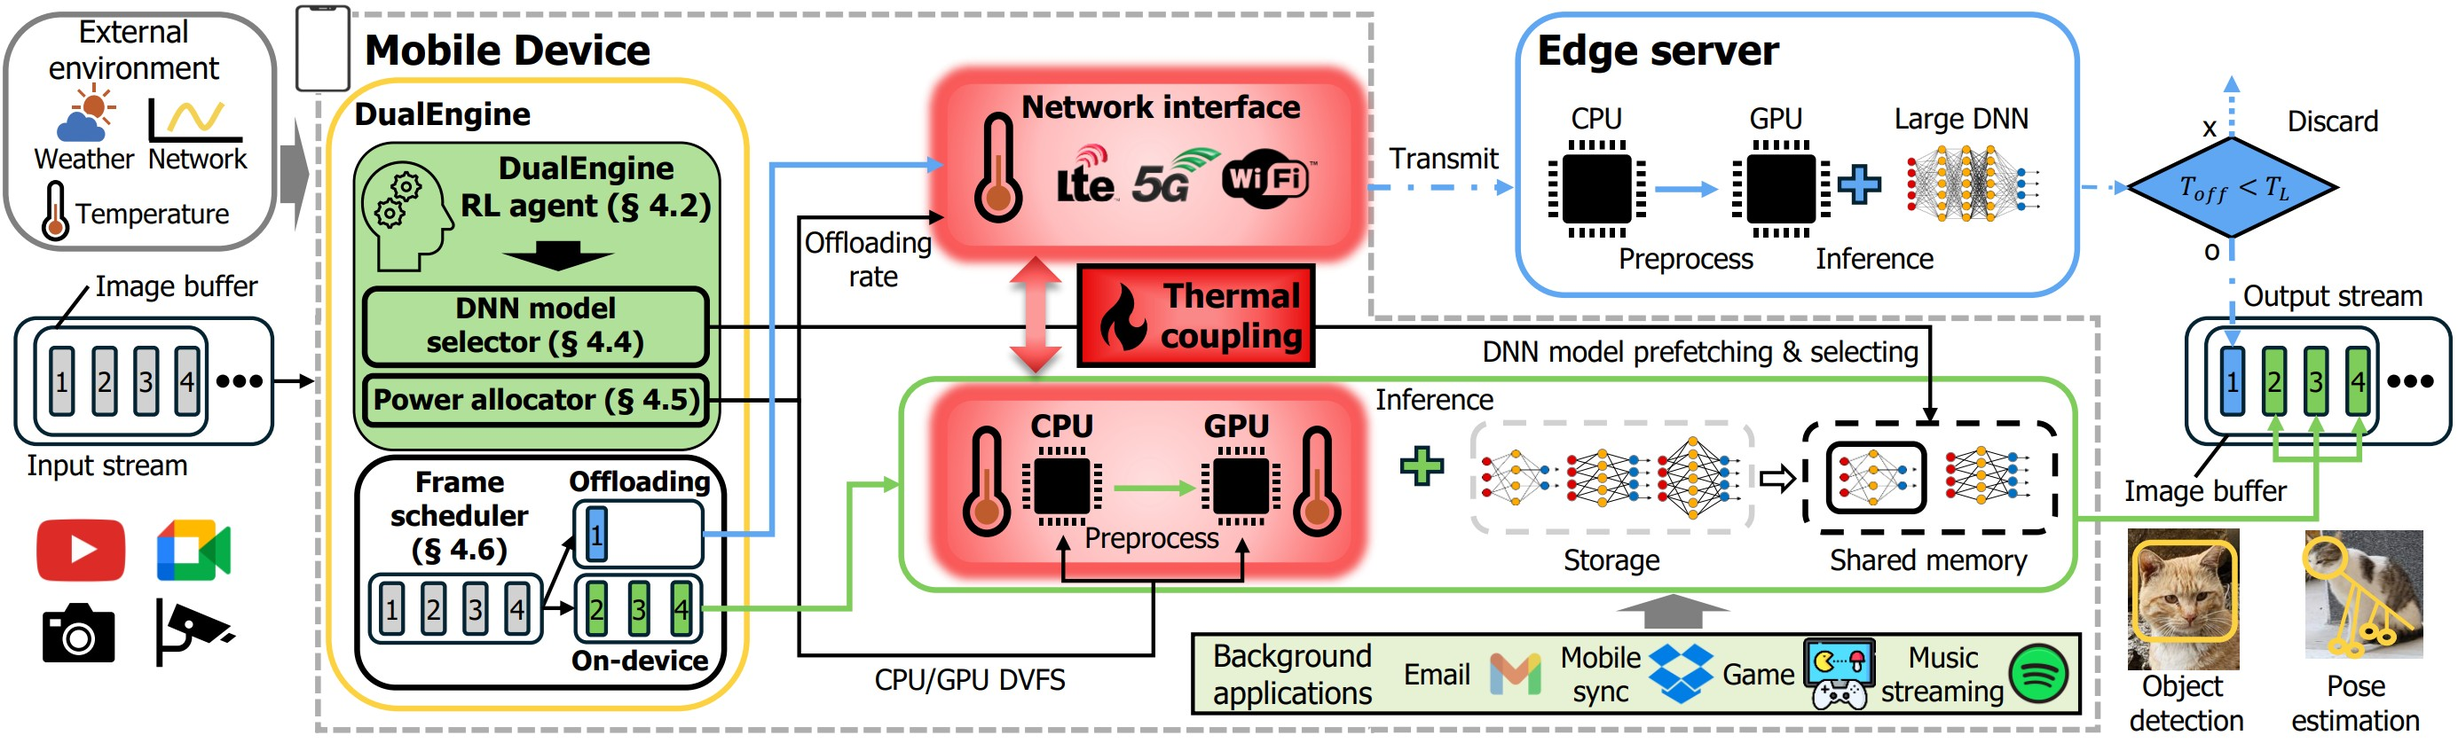
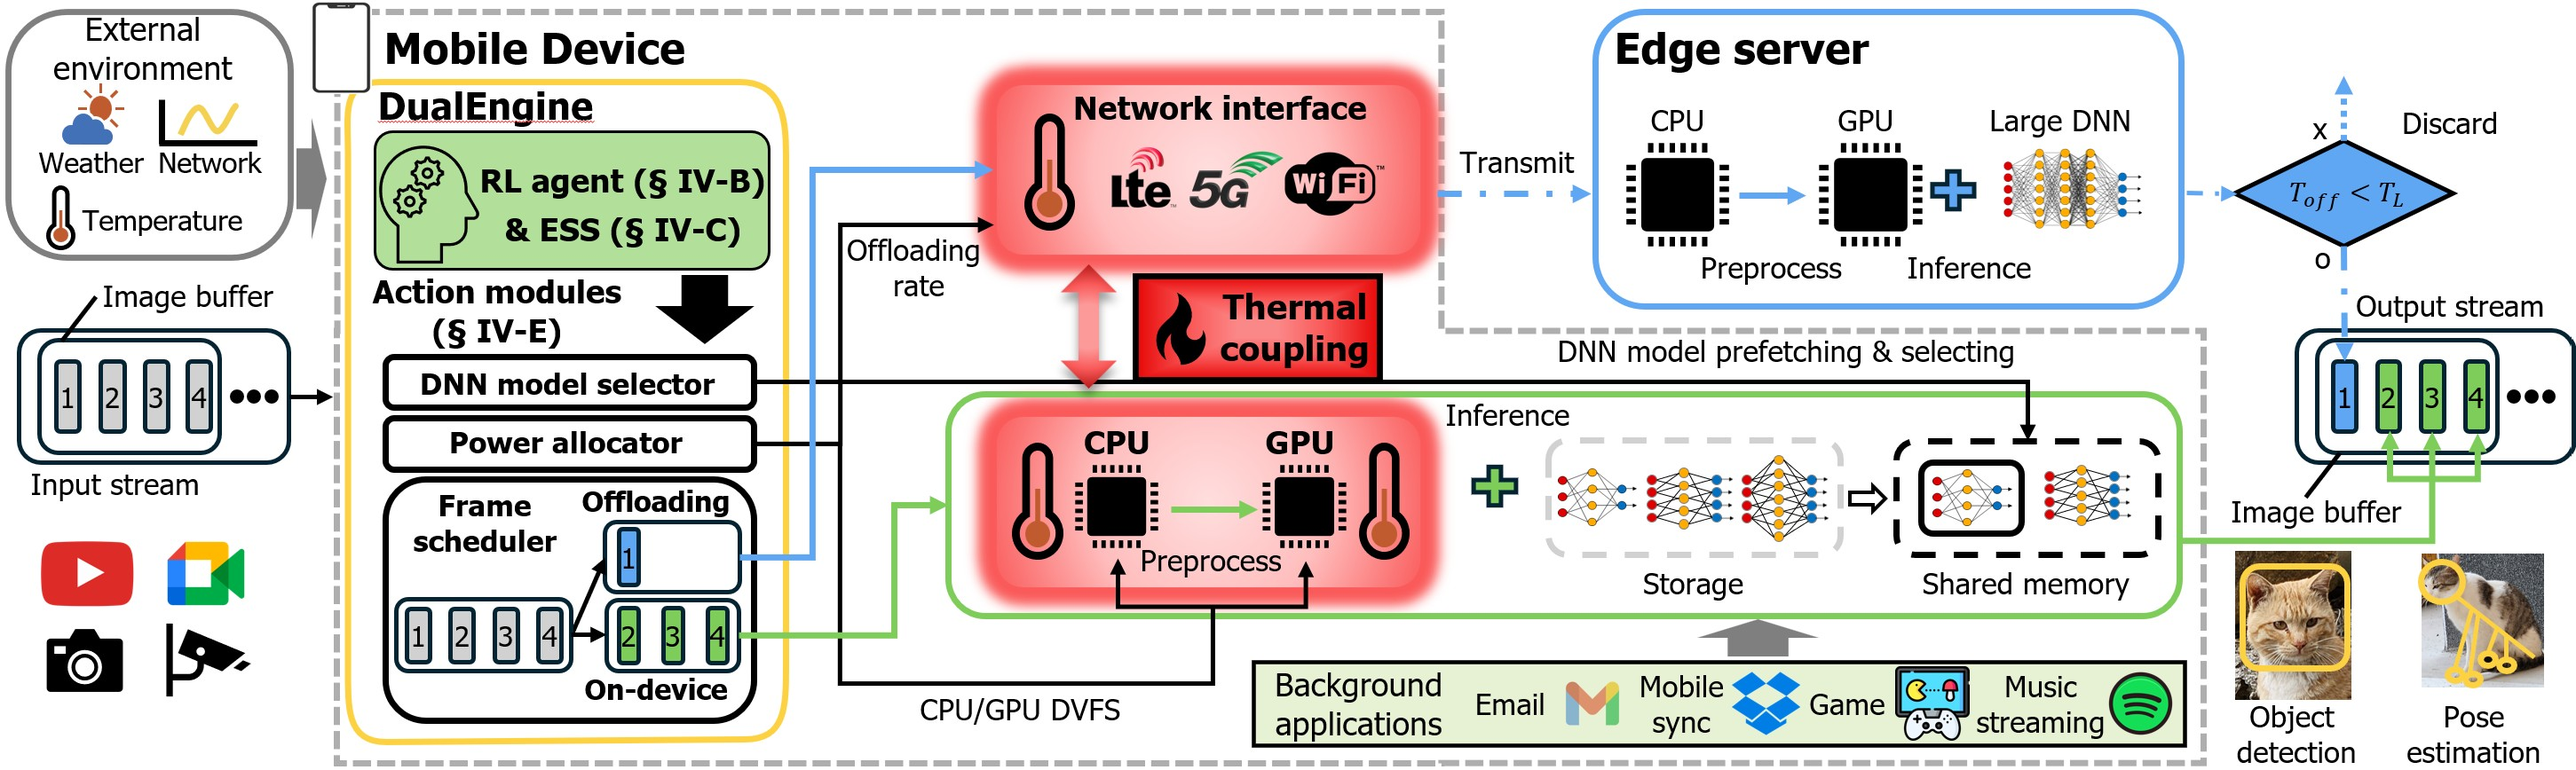
readme file update

Changed region(s): [[0.0, 0.0, 1.0, 1.0], [0.0, 0.6826, 0.0931, 0.8998], [0.9004, 0.0931, 0.9314, 0.1241]]

diff --git a/readme.md b/readme.md
@@ -7,7 +7,7 @@
 [![TensorFlow Lite](https://img.shields.io/badge/AI-TensorFlow%20Lite-orange.svg)](https://www.tensorflow.org/lite)
 [![PyTorch](https://img.shields.io/badge/AI-PyTorch-red.svg)](https://pytorch.org/)
 
-This repository is the official implementation of "DualEngine: Thermal-Aware Co-Execution of On-device Processing and MEC Offloading for Mobile Artificial Intelligence," submitted to MICRO 2025.
+This repository is the official implementation of "DualEngine: Thermal-Aware Co-Execution of On-device Processing and MEC Offloading for Mobile Artificial Intelligence," submitted to IEEE INFOCOM 2026.
 
 ##  Abstract
 
@@ -196,9 +196,17 @@ Below is the list of devices we used for experiment.
 | Quantum 2 | Qualcomm Kryo (2.96+2.42+1.79)GHz  | Qualcomm Adreno 675MHz        | 6  |
 | A12 | ARM (2.3+1.8)GHz       | IT PowerVR 680MHz        | 3               | 
 
+### Tips for threshold setting 
+We should conduct a simple experiment to assess the capacity of the mobile device.  
+The FPS threshold, `targetFPS`, is determined as the average FPS achieved when the AI application is executed under the moderate settings: the mid-level CPU/GPU clock frequencies, the medium-sized DNN model, and the mid-level offloading rate, on a stable smartphone before thermal throttling happens in a room temperature.  
+The thermal threshold, `h_th`, is determined as the minimum temperature among components (i.e., CPU, GPU, and modem) at which the actual CPU/GPU clock frequency falls below the configured clock frequency of the algorithm or when 5G communication switches to LTE under maximum CPU/GPU clock frequencies and offloading rates. 
+The memory threshold, `m_th`, is determined as the amount of available memory at which the application begins utilizing swap memory.
+We conduct the test by gradually increasing the memory load in 100 MB increments (e.g., 100 MB, 200 MB, etc). 
+Based on our measurements, we set `targetFPS=20`, `h_th = 62`, and `m_th = 500` for Samsung S21 Ultra and Quantum 2. 
+For A12, we set `targetFPS=8`, `h_th = 62`, and `m_th = 500`
 
-### Tips for configuration
-You should be CAREFUL changing parameters. 
+### Tips for hyperparameter configuration
+You should be CAREFUL changing hyperparameters (i.e., lambda, kappa, mu, nu). 
 
 There are always trade-offs for each of them. 
 

diff --git a/ImageClassifier/README.md b/ImageClassifier/README.md
@@ -1,1 +1,2 @@
 # DualEngine App
+Please refer to the `readme.md` file in the parent directory for all details.
